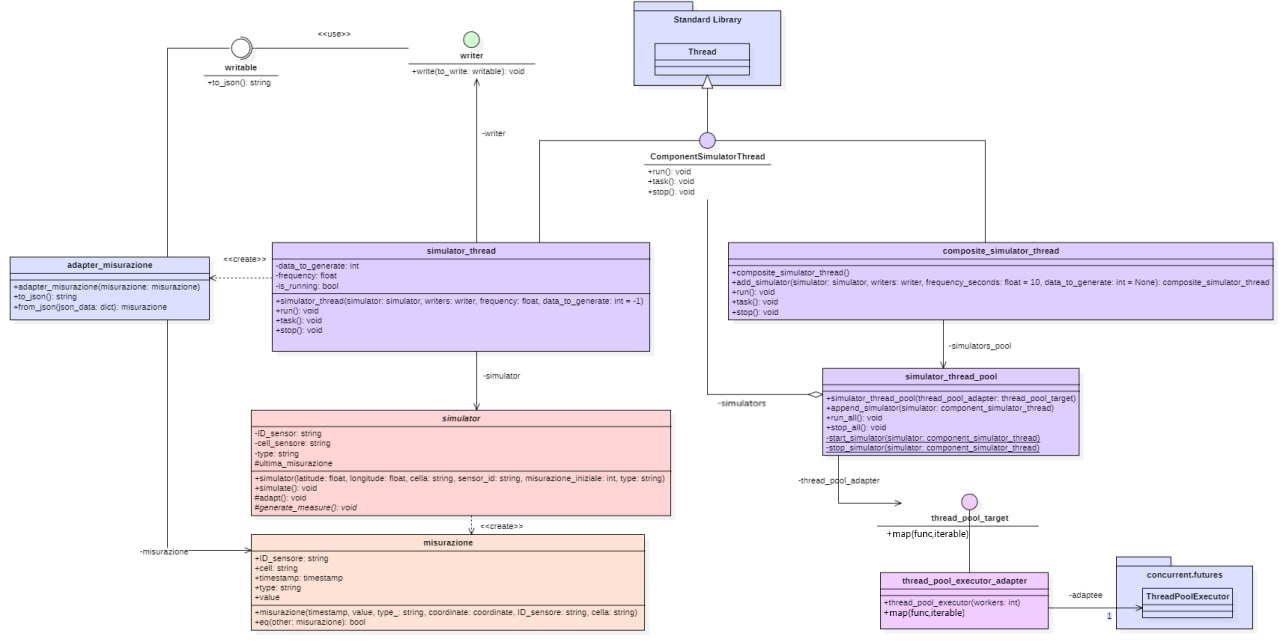
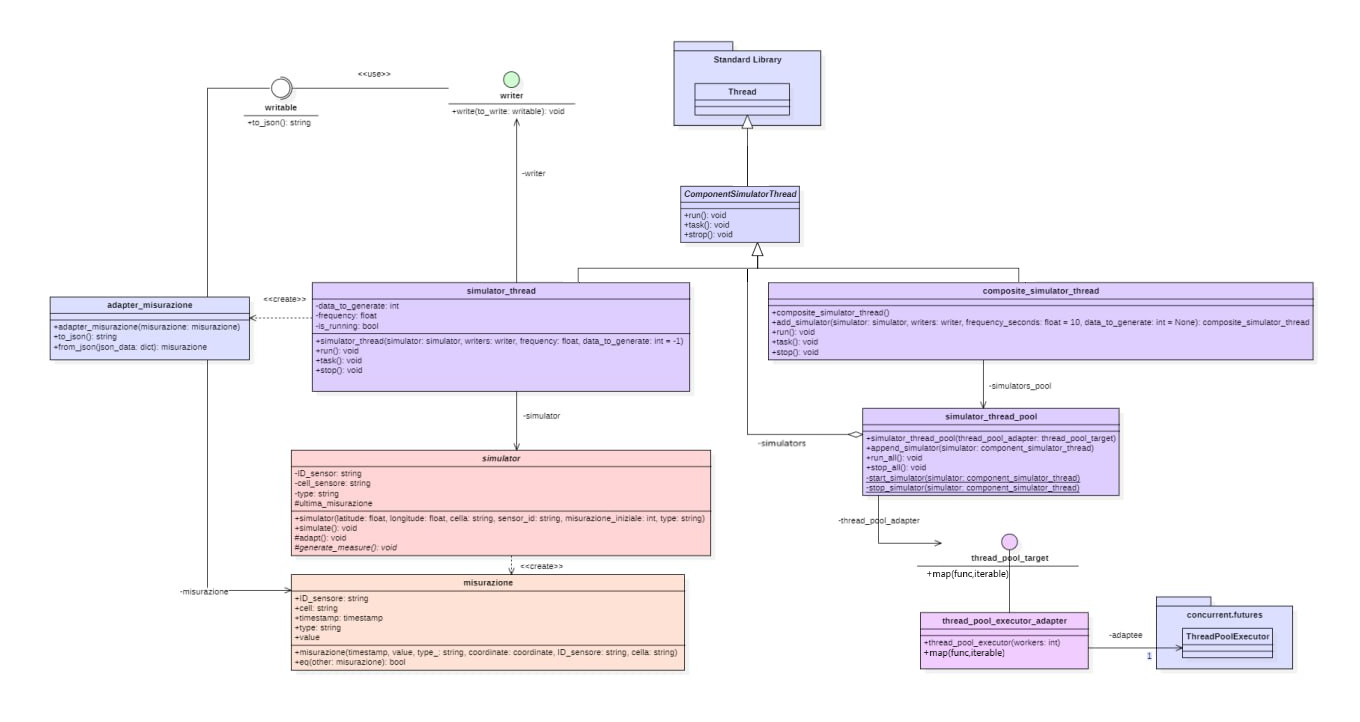
Cambiato component_simulator_thread in una classe astratta

diff --git a/Documenti_Interni/Sottosezioni/Specifica_tecnica/Architettura_simulatori.tex b/Documenti_Interni/Sottosezioni/Specifica_tecnica/Architettura_simulatori.tex
@@ -550,7 +550,7 @@ Un'altra implementazione del \textit{pattern}\textsubscript{\textit{G}} \textit{
 \paragraph{Classi, interfacce, metodi e attributi}
 
 \begin{itemize}
-    \item{\textbf{Interfaccia: \textit{component\_simulator\_thread}}}
+    \item{\textbf{Classe astratta: \textit{component\_simulator\_thread}}}
     \begin{itemize}
         \item \textbf{Metodi:}
         \begin{itemize}
@@ -561,7 +561,7 @@ Un'altra implementazione del \textit{pattern}\textsubscript{\textit{G}} \textit{
         \item\textbf{Note}:
         \begin{itemize}
             \item Eredita le proprietà e i metodi della classe \textit{Thread} della \textit{Standard Library};
-            \item \textit{component\_simulator\_thread} è un interfaccia di threading per la simulazione dei sensori, fornisce un contratto per le operazioni di avvio, esecuzione del compito e arresto;
+            \item \textit{component\_simulator\_thread} è una classe astratta di threading per la simulazione dei sensori, fornisce un contratto per le operazioni di avvio, esecuzione del compito e arresto;
             \item Rappresenta il componente "Component" del \textit{pattern}\textsubscript{\textit{G}} \textit{Composite}, descrive le operazioni comuni sia ai singoli Thread sia a composizioni di questi;
             \item L'utilizzatore dei simulatori può lavorare allo stesso modo con elementi semplici (singoli Thread) o complessi (insiemi di Thread in forma di albero).
         \end{itemize}
@@ -587,7 +587,7 @@ Un'altra implementazione del \textit{pattern}\textsubscript{\textit{G}} \textit{
         \end{itemize}
         \item\textbf{Note}:
         \begin{itemize}
-            \item La classe è un'implementazione concreta dell'interfaccia \textit{component\_simulator\_thread};
+            \item La classe è un'implementazione concreta della classe astratta \textit{component\_simulator\_thread};
             \item Utilizza un oggetto \textit{\textit{simulator}} per generare dati a una certa frequenza e un oggetto che implementa\textit{component\_writer} per scrivere i dati generati;
             \item Rappresenta il componente Leaf del \textit{pattern}\textsubscript{\textit{G}} \textit{Composite};
             \item Se \textit{data\_to\_generate} < 0, allora genera misurazioni finchè il thread non viene interroto dall'esterno;
@@ -632,7 +632,7 @@ Un'altra implementazione del \textit{pattern}\textsubscript{\textit{G}} \textit{
         \end{itemize}
         \item\textbf{Note}:
         \begin{itemize}
-            \item La classe è un'implementazione concreta dell'interfaccia \textit{component\_simulator\_thread}, utilizza un oggetto \textit{simulator\_thread\_pool} per gestire l'esecuzione di vari simulatori;
+            \item La classe è un'implementazione concreta della classe astratta \textit{component\_simulator\_thread}, utilizza un oggetto \textit{simulator\_thread\_pool} per gestire l'esecuzione di vari simulatori;
             \item Rappresenta il componente "Composite" del \textit{pattern}\textsubscript{\textit{G}} \textit{Composite}.
             \item Utilizzando il metodo \textit{run()} viene creato un nuovo thread che permette di eseguire la funzione \textit{task()} in modo sincrono.
             \item Utilizzando il metodo \textit{task()} direttamente non è possibile avere un'esecuzione asincrona. La funzione \textit{task()} viene eseguita sul thread chiamante, bloccando l'esecuzione del codice fino al termine della sua esecuzione. Questa funzione viene utilizzata dalle ThreadPool che creano dei thread per l'esecuzione asincrona delle task.
